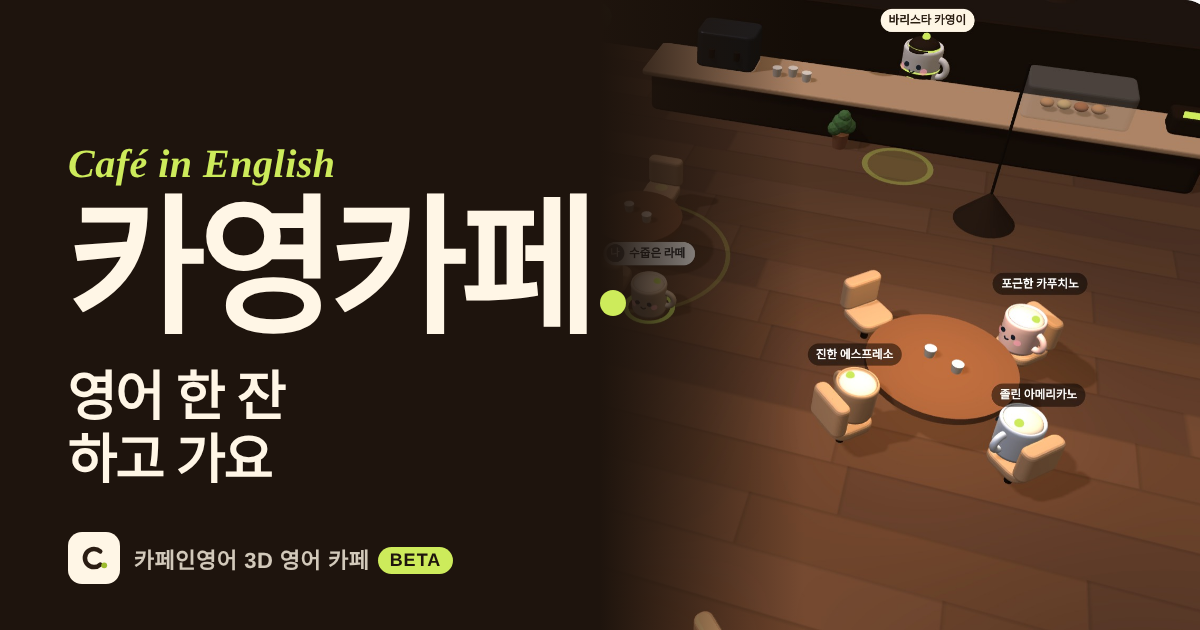
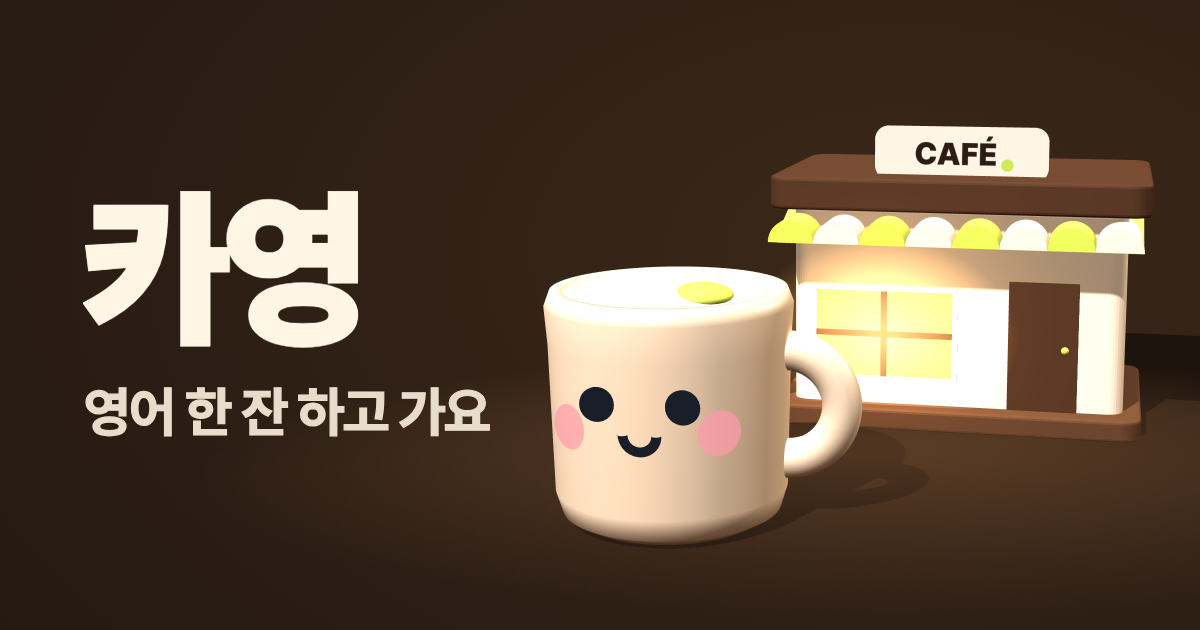
카영: 공유 이미지 캐릭터 크게, 카페 비스듬히
Claude-Session: https://claude.ai/code/session_01PMfggq8PzajLUV5htKnLMb

diff --git a/docs/cafe/play/index.html b/docs/cafe/play/index.html
@@ -10,7 +10,7 @@
 <meta property="og:description" content="바리스타에게 영어로 주문하고, 테이블에서 원어민 손님들과 영어로 수다 떠는 3D 카페.">
 <meta property="og:type" content="website">
 <meta property="og:url" content="https://www.cafeinenglish.com/cafe/play/">
-<meta property="og:image" content="https://www.cafeinenglish.com/cafe/play/og-cafe.png?v=4">
+<meta property="og:image" content="https://www.cafeinenglish.com/cafe/play/og-cafe.png?v=5">
 <meta property="og:image:width" content="1200">
 <meta property="og:image:height" content="630">
 <meta name="twitter:card" content="summary_large_image">
